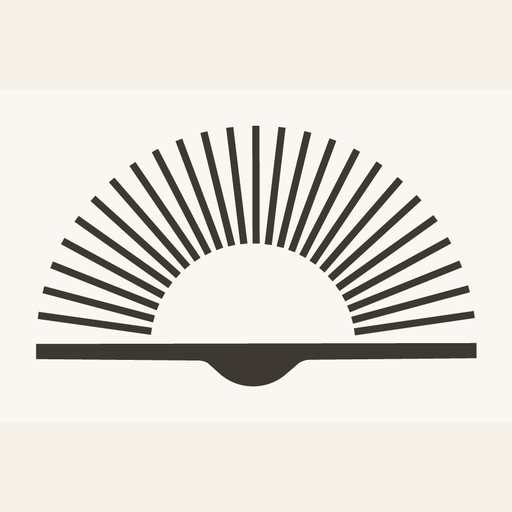
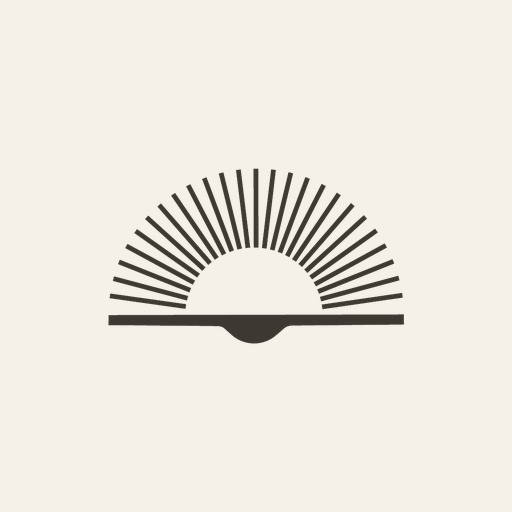
Add files via upload

Changed region(s): [[0.0625, 0.25, 0.9375, 0.7812], [0.6875, 0.2812, 0.7188, 0.3125], [0.2812, 0.2812, 0.3125, 0.3125]]

diff --git a/index.html b/index.html
@@ -480,7 +480,7 @@ input[type=range]::-webkit-slider-thumb {
 <div id="setup-screen">
   <div style="display:flex; flex-direction:column; align-items:center; gap:0;">
     <img src="logo_Audio_books.webp" alt="Audio Books Logo"
-         style="width:110px; height:110px; object-fit:contain; margin-bottom:4px;">
+         style="width:80px; height:auto; object-fit:contain; margin-bottom:2px;">
     <div class="setup-logo">Audio <em>Books</em></div>
     <div class="setup-sub" style="margin-top:4px">Google WaveNet · EPUB · Bahasa Indonesia</div>
   </div>